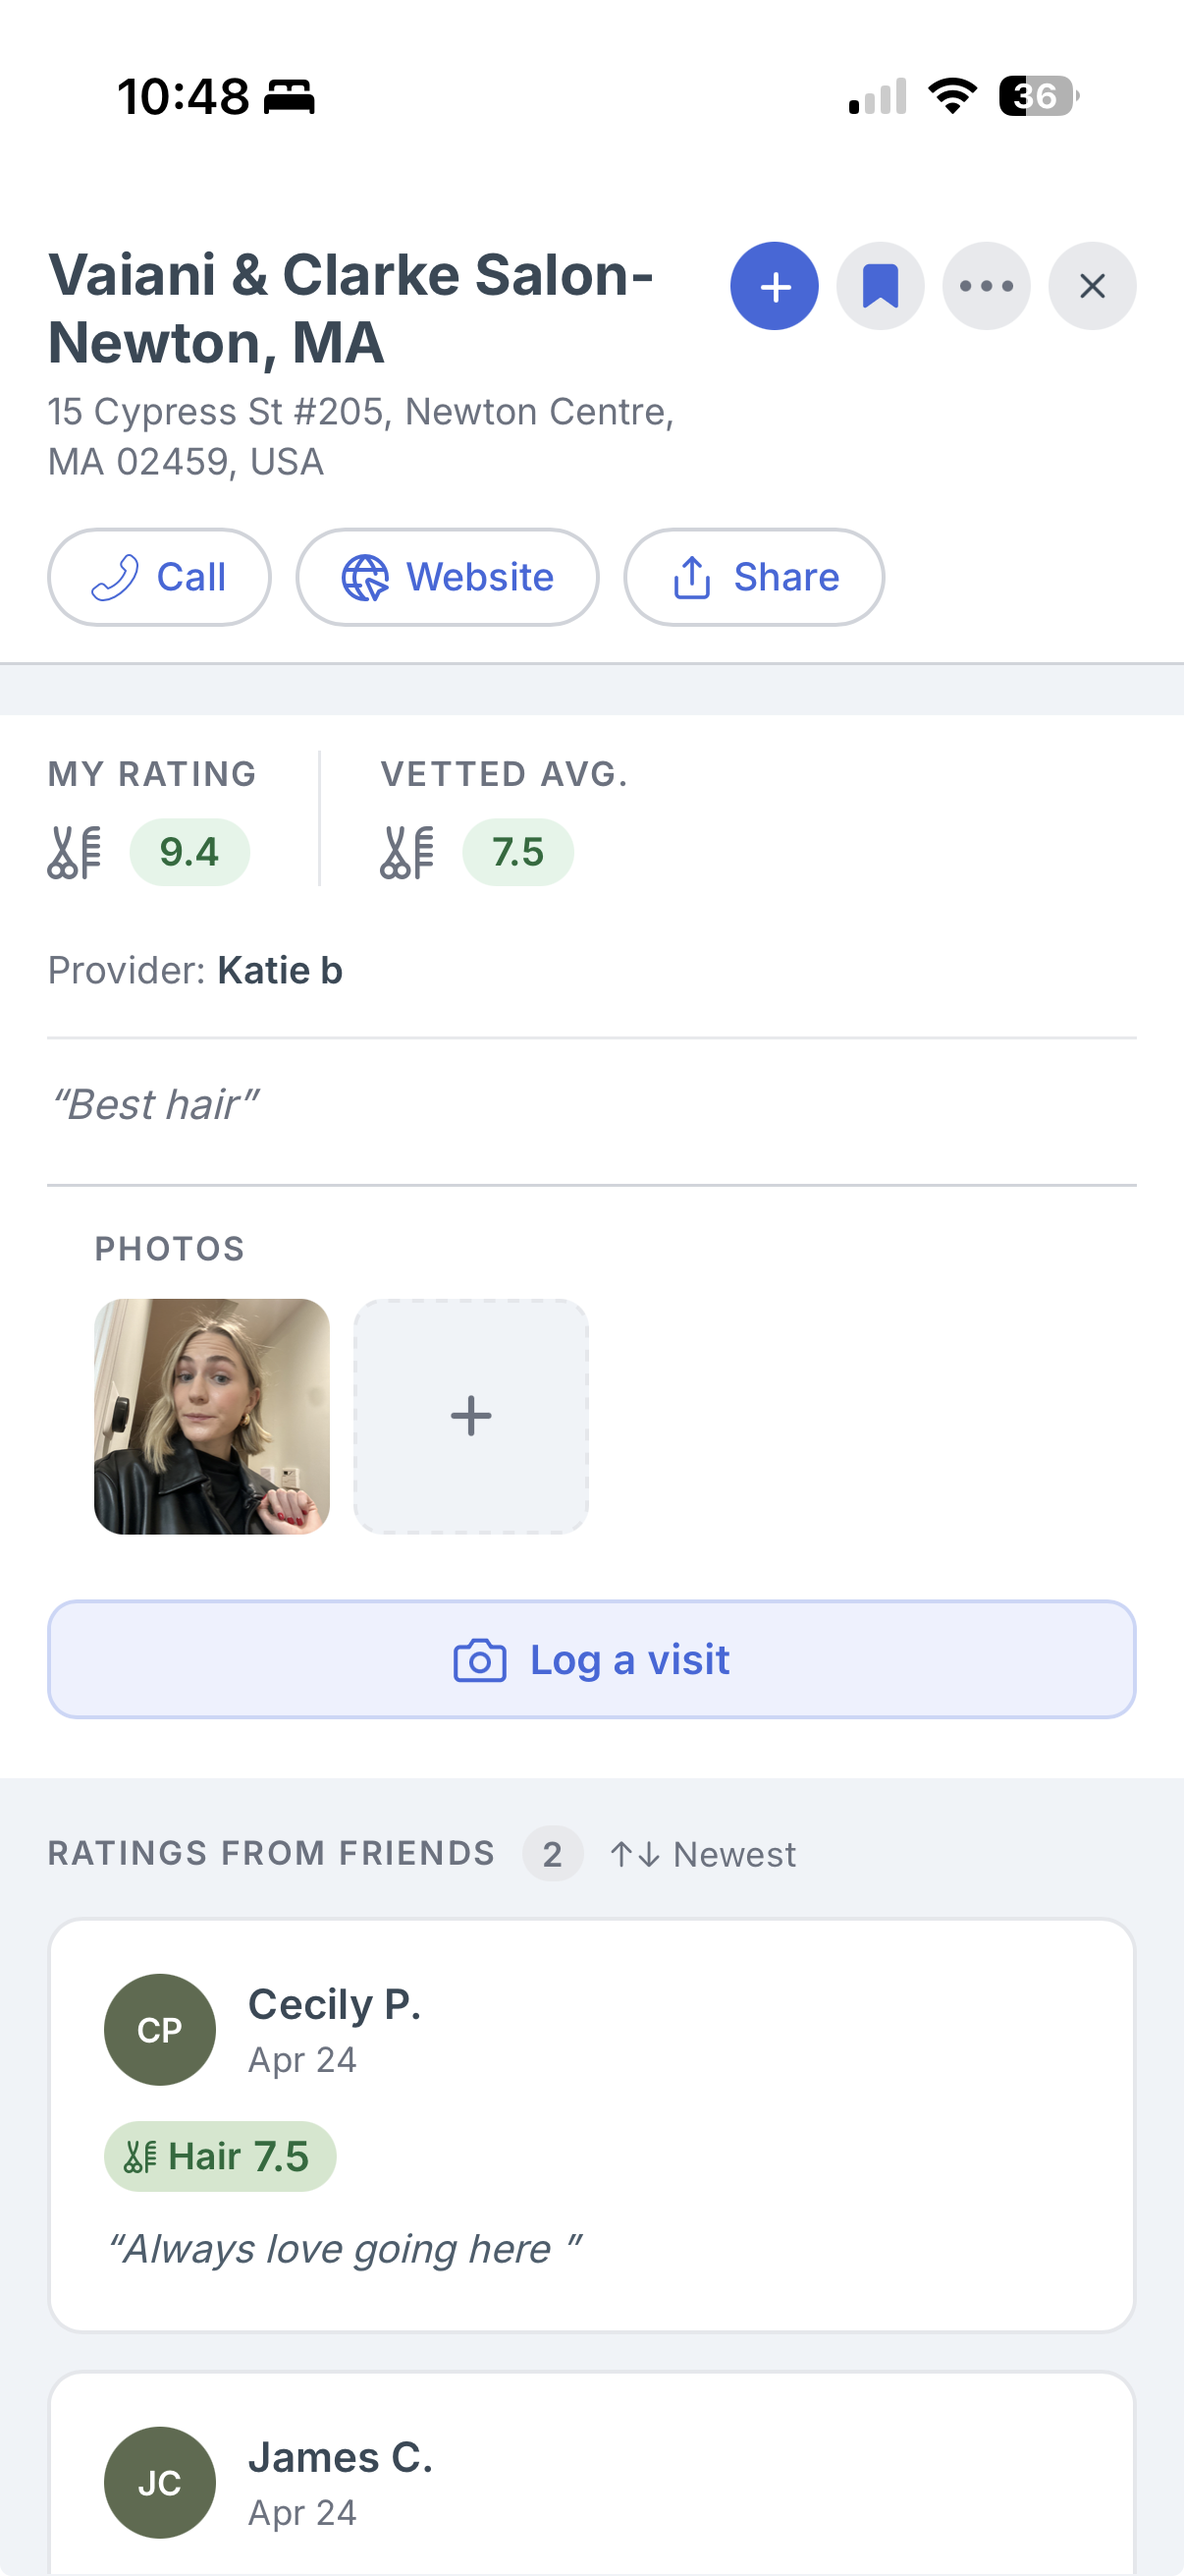
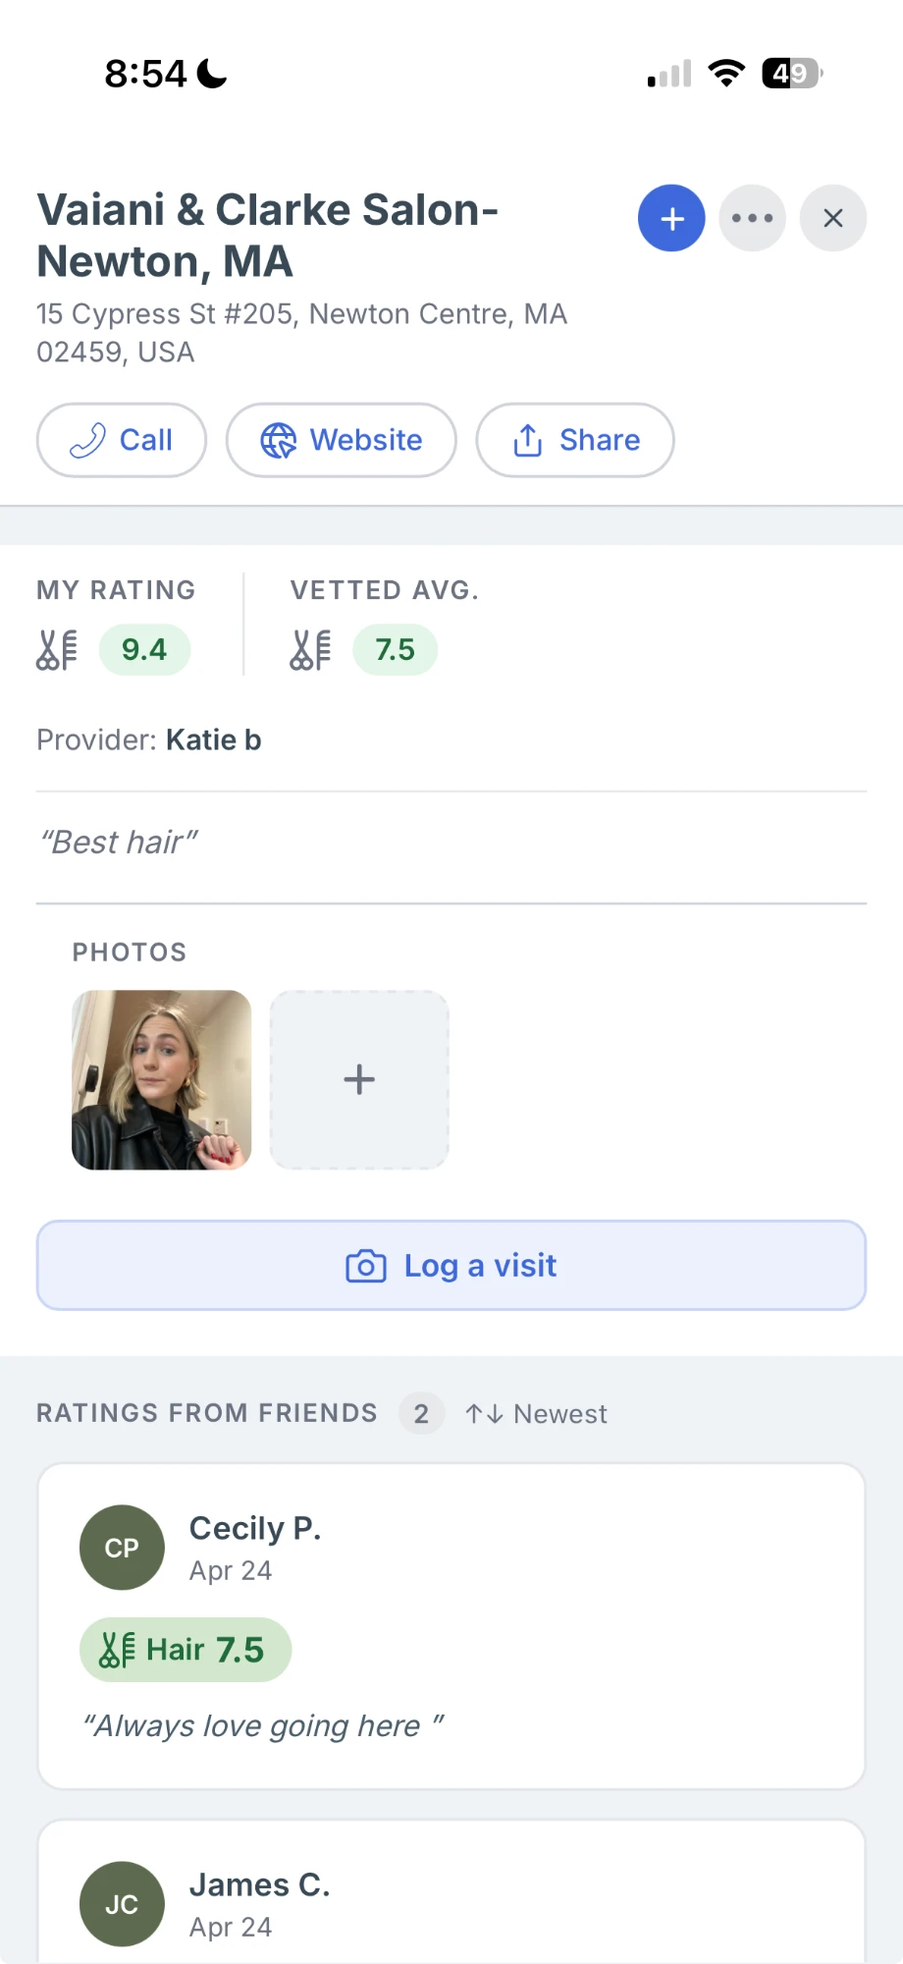
Update website copy, screenshots, and layout for beta launch
- Replace hero badge with "Beta · Now on TestFlight"
- Update sub-copy to reflect private social app positioning
- Add Alterations and Clothing Care service pills
- Replace screenshots with current app UI (Friends feed + salon detail)
- Simplify layout: clean side-by-side phone screenshot section
- Update quote and CTA copy for beta audience

diff --git a/index.html b/index.html
@@ -39,11 +39,11 @@
   <section class="hero" id="join">
     <div class="hero-inner">
       <img src="logo.svg" alt="Keeper" class="hero-logo" />
-      <div class="hero-badge">Now in Friends &amp; Family Preview</div>
+      <div class="hero-badge">Beta · Now on TestFlight</div>
       <h1>Your friends' recs,<br><span>finally in one place</span></h1>
       <p class="hero-sub">
-        Stop spamming your group chat asking for salon recs.
-        Keeper lets you search, rank, and update all your beauty recs.
+        Stop asking your group chat for salon recs.
+        Keeper is a private social app for logging, ranking, and sharing your beauty &amp; style recommendations with people you actually trust.
       </p>
       <form class="waitlist-form" id="waitlist-form" onsubmit="submitWaitlist(event)">
         <input type="tel" id="phone-input" class="waitlist-input" placeholder="Your phone number" autocomplete="tel" required />
@@ -55,22 +55,14 @@
     </div>
   </section>
 
-  <!-- App Preview (phone mockups — drop in screenshots when ready) -->
-  <section class="app-preview">
-    <div class="app-preview-inner">
-      <div class="app-preview-copy">
-        <div class="features-label">See it in action</div>
-        <h2 class="features-heading">Your network's top spots, at a glance</h2>
-        <p class="app-preview-desc">Browse ratings from people you actually know, save spots you want to try, and log your own visits — all in one place.</p>
-        <a href="#join" class="app-cta-link">Get early access →</a>
+  <!-- App Screenshots -->
+  <section class="screenshots-section">
+    <div class="screenshots-inner">
+      <div class="screenshot-phone">
+        <img src="screenshot-feed.png" alt="Keeper home feed" />
       </div>
-      <div class="app-preview-phones">
-        <div class="phone-mockup phone-mockup--back">
-          <img src="screenshot-detail.png" alt="Keeper place detail showing friend ratings" />
-        </div>
-        <div class="phone-mockup phone-mockup--front">
-          <img src="screenshot-feed.png" alt="Keeper friends feed" />
-        </div>
+      <div class="screenshot-phone">
+        <img src="screenshot-detail.png" alt="Keeper rating screen" />
       </div>
     </div>
   </section>
@@ -163,7 +155,7 @@
   <section class="services-section">
     <div class="services-inner">
       <div class="features-label">What's covered</div>
-      <h2 class="features-heading">Every service you care about</h2>
+      <h2 class="features-heading">Beauty, wellness &amp; style</h2>
       <div class="services-list">
         <span class="service-pill">
           <svg viewBox="0 0 24 24" fill="currentColor" width="15" height="15"><path d="M11.828,16.462a53.471,53.471,0,0,1-3.685-5.776C9.665,7.709,11,4.189,11,1A1,1,0,0,0,9,1,18.683,18.683,0,0,1,7.005,8.431,18.694,18.694,0,0,1,5,1,1,1,0,0,0,3,1c0,3.174,1.342,6.7,2.868,9.685a50.636,50.636,0,0,1-3.695,5.777A3.986,3.986,0,1,0,7,22.618a3.985,3.985,0,1,0,4.828-6.156ZM4,22a2,2,0,1,1,2-2A2,2,0,0,1,4,22Zm.883-5.895c.585-.844,1.337-1.991,2.122-3.342.784,1.35,1.534,2.5,2.117,3.341A3.984,3.984,0,0,0,7,17.382,3.989,3.989,0,0,0,4.883,16.105ZM10,22a2,2,0,1,1,2-2A2,2,0,0,1,10,22ZM18,6V8h5a1,1,0,0,1,0,2H18v2h5a1,1,0,0,1,0,2H18v2h5a1,1,0,0,1,0,2H18v5a1,1,0,0,1-2,0V5a5.006,5.006,0,0,1,5-5h2a1,1,0,0,1,0,2H21a3,3,0,0,0-2.816,2H23a1,1,0,0,1,0,2Z"/></svg>
@@ -179,7 +171,7 @@
         </span>
         <span class="service-pill">
           <svg viewBox="0 0 24 24" fill="currentColor" width="15" height="15"><path d="m23.821 13.181c-.412-.901-1.401-2.758-3.099-4.476l2.683-3.351-1.561-1.25-2.631 3.286c-.629-.471-1.325-.902-2.096-1.266l1.329-3.887-1.893-.646-1.315 3.848c-.699-.191-1.443-.325-2.238-.387v-4.052h-2v4.052c-.796.062-1.539.196-2.238.387l-1.316-3.848-1.893.647 1.329 3.887c-.771.363-1.467.794-2.096 1.265l-2.631-3.286-1.562 1.25 2.683 3.351c-1.697 1.719-2.685 3.575-3.098 4.477-.238.521-.238 1.117 0 1.639.878 1.918 4.328 8.179 11.821 8.179s10.943-6.261 11.822-8.182c.237-.52.237-1.117 0-1.638zm-11.821 7.819c-6.302 0-9.25-5.367-10.003-6.987.753-1.645 3.699-7.013 10.003-7.013s9.25 5.368 10.003 6.987c-.753 1.645-3.699 7.013-10.003 7.013zm0-12c-2.757 0-5 2.243-5 5s2.243 5 5 5 5-2.243 5-5-2.243-5-5-5zm0 8c-1.654 0-3-1.346-3-3s1.346-3 3-3 3 1.346 3 3-1.346 3-3 3z"/></svg>
-          Brows &amp; Lashes
+          Lashes &amp; Brows
         </span>
         <span class="service-pill">
           <svg viewBox="0 0 24 24" fill="currentColor" width="15" height="15"><path d="M12,17c-2.76,0-5-2.24-5-5s2.24-5,5-5,5,2.24,5,5-2.24,5-5,5Zm0-8c-1.65,0-3,1.35-3,3s1.35,3,3,3,3-1.35,3-3-1.35-3-3-3Zm1-5V1c0-.55-.45-1-1-1s-1,.45-1,1v3c0,.55,.45,1,1,1s1-.45,1-1Zm0,19v-3c0-.55-.45-1-1-1s-1,.45-1,1v3c0,.55,.45,1,1,1s1-.45,1-1ZM5,12c0-.55-.45-1-1-1H1c-.55,0-1,.45-1,1s.45,1,1,1h3c.55,0,1-.45,1-1Zm19,0c0-.55-.45-1-1-1h-3c-.55,0-1,.45-1,1s.45,1,1,1h3c.55,0,1-.45,1-1ZM6.71,6.71c.39-.39,.39-1.02,0-1.41l-2-2c-.39-.39-1.02-.39-1.41,0s-.39,1.02,0,1.41l2,2c.2,.2,.45,.29,.71,.29s.51-.1,.71-.29Zm14,14c.39-.39,.39-1.02,0-1.41l-2-2c-.39-.39-1.02-.39-1.41,0s-.39,1.02,0,1.41l2,2c.2,.2,.45,.29,.71,.29s.51-.1,.71-.29Zm-16,0l2-2c.39-.39,.39-1.02,0-1.41s-1.02-.39-1.41,0l-2,2c-.39,.39-.39,1.02,0,1.41,.2,.2,.45,.29,.71,.29s.51-.1,.71-.29ZM18.71,6.71l2-2c.39-.39,.39-1.02,0-1.41s-1.02-.39-1.41,0l-2,2c-.39,.39,.39,1.02,0,1.41,.2,.2,.45,.29,.71,.29s.51-.1,.71-.29Z"/></svg>
@@ -189,7 +181,14 @@
           <svg viewBox="0 0 24 24" fill="currentColor" width="15" height="15"><path d="m22.535 7.324 1.43-1.4-5.75-5.873-1.43 1.4 2.256 2.3-2.179 2.041-.912-.913a3 3 0 0 0 -4.243 0l-8.707 8.707v6l-2.957 2.957 1.414 1.414 2.957-2.957h6l8.707-8.707a3 3 0 0 0 0-4.243l-.844-.843 2.163-2.023zm-4.828 3.555-8.121 8.121h-4.586v-3.711l1.918 1.918 1.414-1.414-2.355-2.355 1.586-1.586 2.355 2.355 1.414-1.414-2.355-2.355 1.586-1.586 2.355 2.355 1.414-1.414-2.355-2.355 1.144-1.145a1 1 0 0 1 1.415 0l3.171 3.171a1 1 0 0 1 0 1.415z"/></svg>
           Injectables
         </span>
-        <span class="service-pill service-pill--muted">More coming</span>
+        <span class="service-pill">
+          <svg viewBox="0 0 24 24" fill="currentColor" width="15" height="15"><path d="M23,18.382V7c0-2.414-1.721-4.434-4-4.899V1c0-.553-.448-1-1-1s-1,.447-1,1v1H6V1c0-.553-.448-1-1-1s-1,.447-1,1v1.424c-1.763,.774-3,2.531-3,4.576v4c0,1.103,.897,2,2,2h1v1c0,.553,.448,1,1,1s1-.447,1-1v-1h1c1.103,0,2-.897,2-2,0-.552,.449-1,1-1h2c.551,0,1,.448,1,1v6H4c-2.206,0-4,1.794-4,4v1c0,1.103,.897,2,2,2H22c1.103,0,2-.897,2-2v-1c0-1.005-.385-1.914-1-2.618ZM12,8h-2c-1.654,0-3,1.346-3,3H3V7c0-1.654,1.346-3,3-3h12c1.654,0,3,1.346,3,3v10.142c-.322-.084-.653-.142-1-.142h-5v-6c0-1.654-1.346-3-3-3ZM2,22v-1c0-1.103,.897-2,2-2H20c1.103,0,2,.897,2,2v1s-20,0-20,0Zm14.5-8.5c0-.828,.672-1.5,1.5-1.5s1.5,.672,1.5,1.5-.672,1.5-1.5,1.5-1.5-.672-1.5-1.5Zm0-4c0-.828,.672-1.5,1.5-1.5s1.5,.672,1.5,1.5-.672,1.5-1.5,1.5-1.5-.672-1.5-1.5Z"/></svg>
+          Alterations
+        </span>
+        <span class="service-pill">
+          <svg viewBox="0 0 24 24" fill="currentColor" width="15" height="15"><path d="m22.751,17.411l-9.108-6.47c2.639-2.166,3.844-3.16,3.175-6.087-.417-1.822-1.862-3.268-3.684-3.684-1.514-.345-3.068,0-4.259.952-1.192.95-1.875,2.369-1.875,3.891,0,.552.448,1,1,1s1-.448,1-1c0-.911.409-1.759,1.122-2.328.724-.578,1.635-.779,2.568-.565,1.061.242,1.937,1.118,2.179,2.179.383,1.678.148,1.927-2.505,4.106l-.968.799L1.222,17.431c-.765.583-1.222,1.506-1.222,2.467,0,1.71,1.392,3.102,3.102,3.102h17.796c1.71,0,3.102-1.392,3.102-3.102,0-.961-.457-1.884-1.249-2.487Zm-1.853,3.589H3.102c-.608,0-1.102-.494-1.102-1.102,0-.341.163-.669.407-.856l9.593-6.815,9.565,6.795c.272.207.435.535.435.876,0,.608-.494,1.102-1.102,1.102Z"/></svg>
+          Clothing Care
+        </span>
       </div>
     </div>
   </section>
@@ -198,15 +197,15 @@
   <section class="quote-section">
     <div class="quote-inner">
       <div class="quote-mark">"</div>
-      <p class="quote-text">I found it hard to find a good nail salon when I moved back to NYC. Keeper makes it easy to find reliable recommendations.</p>
-      <div class="quote-attr">Early tester, New York</div>
+      <p class="quote-text">The rating and note system is really good — once I've been somewhere, logging it takes 30 seconds and my friends actually use it.</p>
+      <div class="quote-attr">Beta tester, Boston</div>
     </div>
   </section>
 
   <!-- CTA -->
   <section class="cta-section">
-    <h2>Be part of the first circle</h2>
-    <p>We're rolling out to a small group first. Drop your number and you'll hear from us when your spot is ready.</p>
+    <h2>Join the waitlist</h2>
+    <p>We're in beta and growing. Drop your number and we'll reach out when you're up.</p>
     <form class="waitlist-form" id="waitlist-form-2" onsubmit="submitWaitlist(event, '2')">
       <input type="tel" id="phone-input-2" class="waitlist-input" placeholder="Your phone number" autocomplete="tel" required />
       <button type="submit" class="waitlist-btn" id="waitlist-btn-2">Join waitlist</button>

diff --git a/style.css b/style.css
@@ -76,14 +76,14 @@ nav {
 /* ── Hero ── */
 .hero {
   background: var(--bg);
-  padding: 100px 24px 80px;
+  padding: 80px 24px 60px;
   text-align: center;
 }
 
 .hero-inner { max-width: 680px; margin: 0 auto; }
 
 .hero-logo {
-  width: 72px;
+  width: 64px;
   height: auto;
   margin: 0 auto 20px;
   display: block;
@@ -95,19 +95,20 @@ nav {
   gap: 6px;
   background: var(--blue-pale);
   color: var(--blue);
-  font-size: 0.8rem;
+  font-size: 0.78rem;
   font-weight: 600;
   padding: 5px 14px;
   border-radius: 20px;
   margin-bottom: 24px;
-  letter-spacing: 0.02em;
+  letter-spacing: 0.04em;
+  text-transform: uppercase;
 }
 
 .hero h1 {
-  font-size: clamp(2.4rem, 6vw, 3.6rem);
+  font-size: clamp(2.4rem, 6vw, 3.8rem);
   font-weight: 800;
   color: var(--dark);
-  line-height: 1.12;
+  line-height: 1.1;
   letter-spacing: -0.03em;
   margin-bottom: 20px;
 }
@@ -115,11 +116,11 @@ nav {
 .hero h1 span { color: var(--blue); }
 
 .hero-sub {
-  font-size: 1.1rem;
+  font-size: 1.05rem;
   color: var(--dark-mid);
-  max-width: 520px;
+  max-width: 480px;
   margin: 0 auto 40px;
-  line-height: 1.65;
+  line-height: 1.7;
 }
 
 /* ── Waitlist Form ── */
@@ -196,104 +197,40 @@ nav {
   display: none;
 }
 
-/* ── App Preview ── */
-.app-preview {
-  background: var(--dark);
-  padding: 80px 24px;
-  overflow: hidden;
+/* ── Screenshots Section ── */
+.screenshots-section {
+  background: var(--bg);
+  padding: 0 24px 80px;
 }
 
-.app-preview-inner {
-  max-width: 1000px;
+.screenshots-inner {
+  max-width: 600px;
   margin: 0 auto;
   display: flex;
-  align-items: center;
-  gap: 64px;
+  gap: 20px;
+  justify-content: center;
 }
 
-.app-preview-copy {
+.screenshot-phone {
   flex: 1;
-  min-width: 260px;
-}
-
-.app-preview-copy .features-label {
-  color: rgba(255,255,255,0.5);
-}
-
-.app-preview-copy .features-heading {
-  color: white;
-  margin-bottom: 16px;
-}
-
-.app-preview-desc {
-  font-size: 1rem;
-  color: rgba(255,255,255,0.65);
-  line-height: 1.7;
-  margin-bottom: 32px;
-  max-width: 400px;
-}
-
-.app-cta-link {
-  display: inline-flex;
-  align-items: center;
-  gap: 6px;
-  background: var(--blue);
-  color: white;
-  font-size: 0.95rem;
-  font-weight: 600;
-  padding: 13px 26px;
-  border-radius: 12px;
-  text-decoration: none;
-  transition: background 0.15s, transform 0.12s;
-}
-
-.app-cta-link:hover {
-  background: var(--blue-dark);
-  transform: translateY(-2px);
-}
-
-/* ── Phone Mockups ── */
-.app-preview-phones {
-  position: relative;
-  flex-shrink: 0;
-  width: 340px;
-  height: 520px;
-}
-
-.phone-mockup {
-  position: absolute;
-  width: 228px;
-  border-radius: 36px;
-  background: #111;
-  padding: 9px;
+  max-width: 240px;
+  border-radius: 32px;
   overflow: hidden;
+  box-shadow: 0 16px 48px rgba(55,73,87,0.18);
+  border: 1px solid rgba(0,0,0,0.06);
+  background: #fff;
 }
 
-.phone-mockup img {
+.screenshot-phone img {
   width: 100%;
   display: block;
-  border-radius: 28px;
-  object-fit: cover;
-  /* Placeholder gradient shown when image not yet loaded */
-  background: linear-gradient(160deg, #2a3a4a 0%, #1a2530 100%);
-  min-height: 420px;
+  border-radius: 32px;
 }
 
-.phone-mockup--back {
-  top: 48px;
-  right: 0;
-  z-index: 1;
-  transform: rotate(4deg);
-  box-shadow: 0 24px 60px rgba(0,0,0,0.5);
-  opacity: 0.8;
-}
-
-.phone-mockup--front {
-  top: 0;
-  left: 0;
-  z-index: 2;
-  transform: rotate(-3deg);
-  box-shadow: 0 40px 80px rgba(0,0,0,0.55), 0 0 0 1px rgba(255,255,255,0.06);
+@media (max-width: 500px) {
+  .screenshots-inner { gap: 12px; }
+  .screenshot-phone { border-radius: 24px; }
+  .screenshot-phone img { border-radius: 24px; }
 }
 
 /* ── Features grid ── */
@@ -454,11 +391,11 @@ nav {
 .tier-desc { font-size: 0.88rem; line-height: 1.55; }
 
 /* ── Quote ── */
-.quote-section { text-align: center; padding: 80px 24px; background: var(--bg); }
+.quote-section { text-align: center; padding: 80px 24px; background: #D3E7CD; }
 .quote-inner { max-width: 680px; margin: 0 auto; }
-.quote-mark { font-size: 4rem; line-height: 1; color: var(--blue); opacity: 0.3; font-family: Georgia, serif; }
-.quote-text { font-size: clamp(1.1rem, 2.5vw, 1.4rem); font-weight: 600; color: var(--dark); line-height: 1.55; margin: -8px 0 20px; }
-.quote-attr { font-size: 0.85rem; color: var(--dark-light); }
+.quote-mark { font-size: 4rem; line-height: 1; color: #1E6B3A; opacity: 0.35; font-family: Georgia, serif; }
+.quote-text { font-size: clamp(1.1rem, 2.5vw, 1.4rem); font-weight: 600; color: #1a3d27; line-height: 1.55; margin: -8px 0 20px; }
+.quote-attr { font-size: 0.85rem; color: #2E8048; font-weight: 500; }
 
 /* ── CTA band ── */
 .cta-section { text-align: center; padding: 80px 24px; }
@@ -791,15 +728,22 @@ footer {
   background: var(--surface);
   border: 1.5px solid var(--border);
   border-radius: 50px;
-  padding: 9px 20px;
-  font-size: 0.95rem;
+  padding: 10px 22px;
+  font-size: 0.92rem;
   font-weight: 600;
-  color: var(--dark-mid);
+  color: var(--dark);
+  transition: transform 0.12s, box-shadow 0.12s;
+  box-shadow: 0 1px 4px rgba(0,0,0,0.05);
+}
+
+.service-pill:hover {
+  transform: translateY(-2px);
+  box-shadow: 0 4px 12px rgba(0,0,0,0.1);
 }
 
 .service-pill svg {
   flex-shrink: 0;
-  opacity: 0.7;
+  opacity: 0.65;
 }
 
 .service-pill--muted {
@@ -828,32 +772,6 @@ footer {
   }
 }
 
-@media (max-width: 768px) {
-  .app-preview-inner {
-    flex-direction: column;
-    gap: 48px;
-    text-align: center;
-  }
-
-  .app-preview-copy .features-label,
-  .app-preview-copy .features-heading,
-  .app-preview-desc {
-    text-align: center;
-  }
-
-  .app-preview-desc { max-width: 100%; }
-
-  .app-preview-phones {
-    width: 290px;
-    height: 450px;
-    margin: 0 auto;
-  }
-
-  .phone-mockup { width: 196px; }
-  .phone-mockup img { min-height: 360px; }
-  .phone-mockup--back { top: 40px; }
-}
-
 @media (max-width: 600px) {
   .nav-links { gap: 16px; }
   .nav-links a { font-size: 0.82rem; }
@@ -863,12 +781,4 @@ footer {
 
 @media (max-width: 400px) {
   .steps { grid-template-columns: 1fr; }
-
-  .app-preview-phones {
-    width: 240px;
-    height: 380px;
-  }
-
-  .phone-mockup { width: 164px; }
-  .phone-mockup img { min-height: 300px; }
 }
